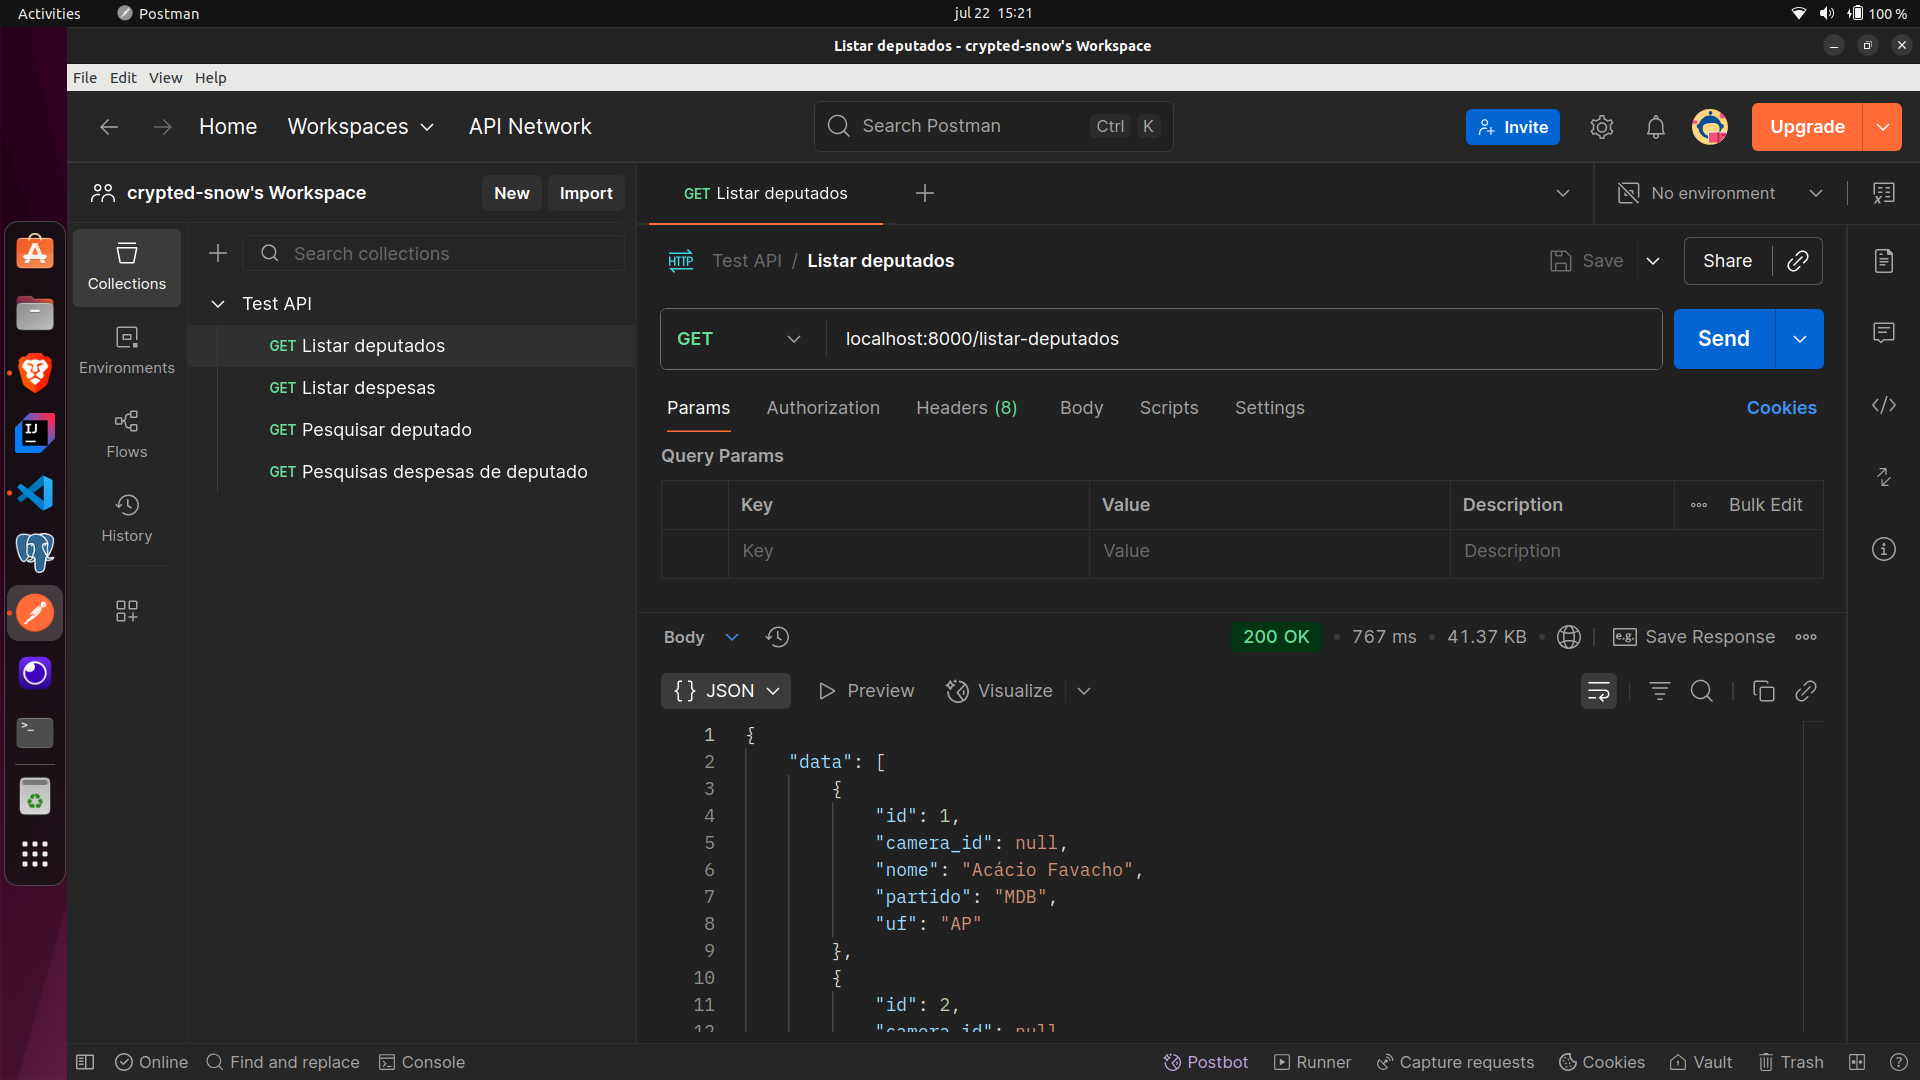
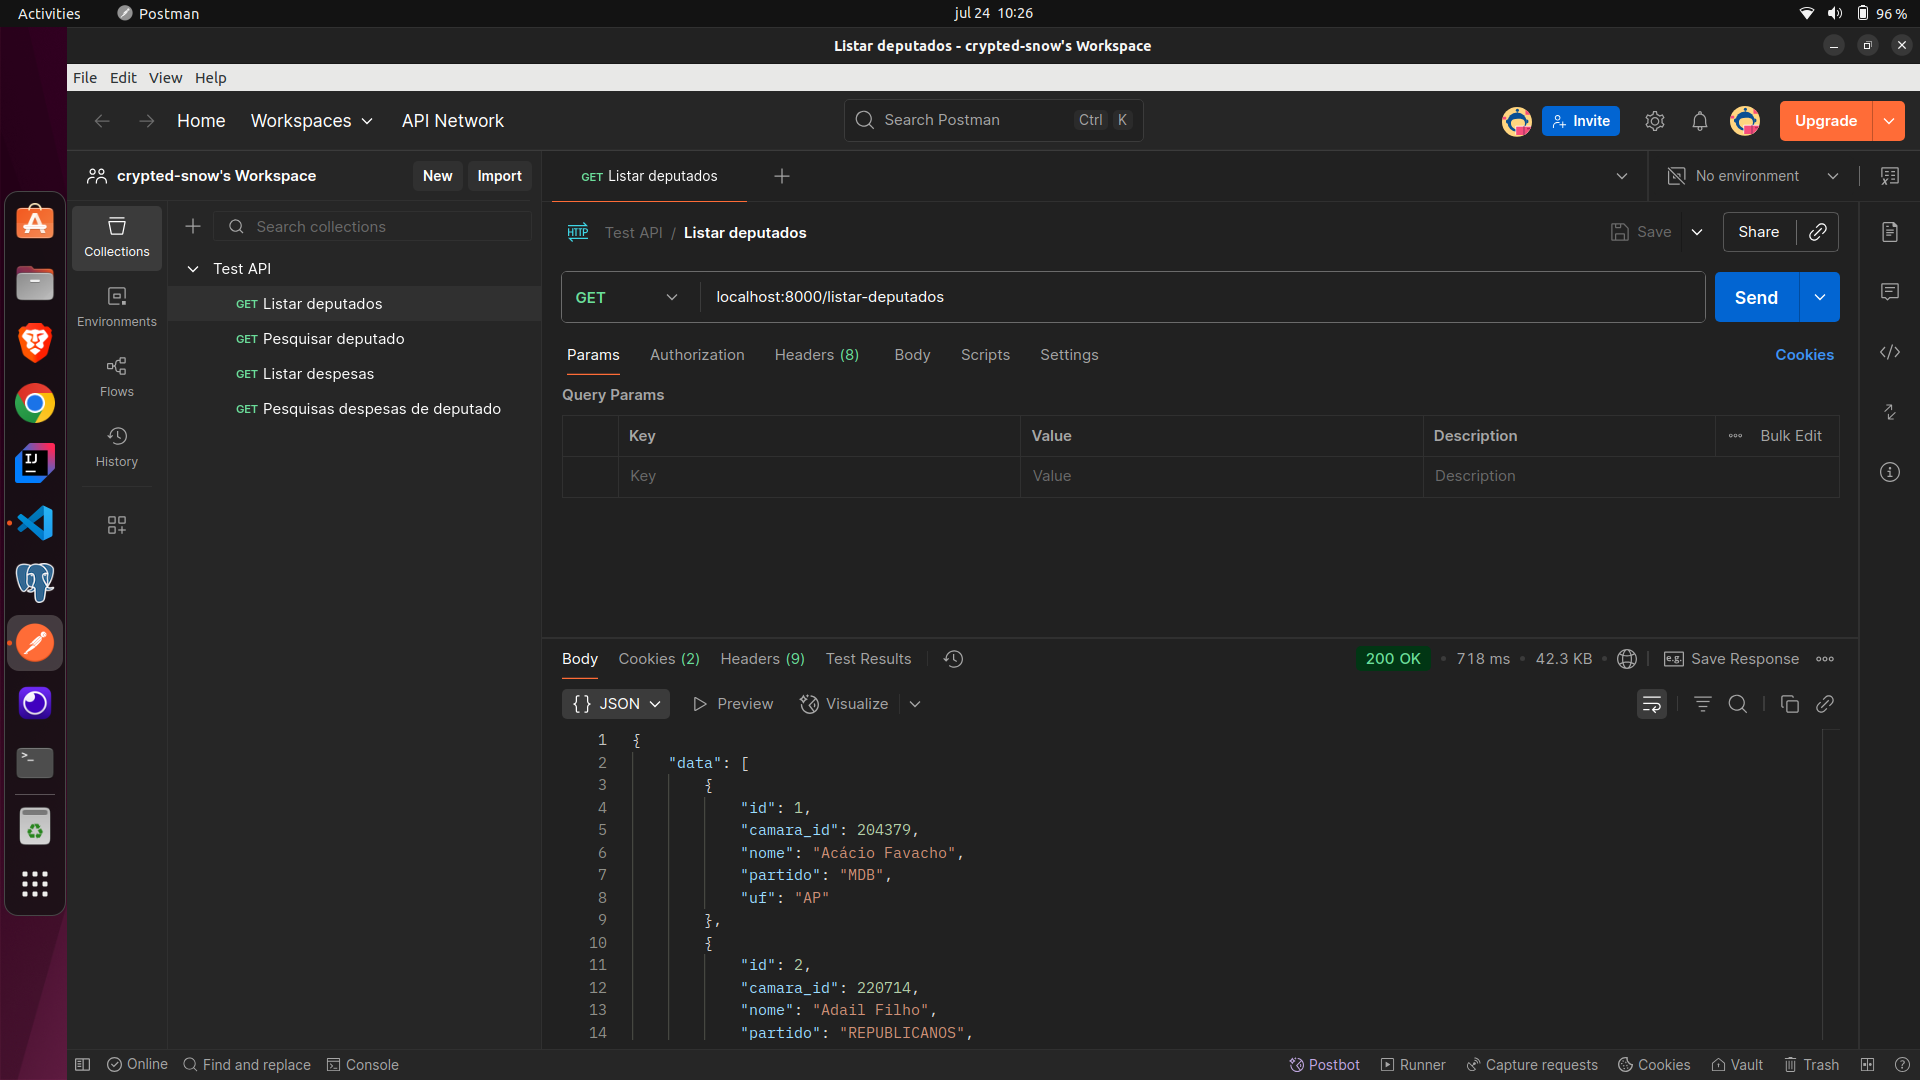
Refactor: Change camera_id to camara_id.

diff --git a/app/Http/Resources/DespesaResource.php b/app/Http/Resources/DespesaResource.php
@@ -15,12 +15,12 @@ class DespesaResource extends JsonResource
     public function toArray(Request $request): array
     {
         return [
-            'id'         => $this->id,
-            'deputado_id'  => $this->deputados->nome,
+            'id'            => $this->id,
+            'deputado_id'   => $this->deputados->nome,
             'tipo_despesa'  => $this->tipo_despesa,
-            'valor'       => $this->valor,
-            'fornecedor'       => $this->fornecedor,
-            'url_documento' => $this->url_documento,
+            'valor'         => $this->valor,
+            'fornecedor'    => $this->fornecedor,
+            'url_documento'  => $this->url_documento,
             'data_documento' => optional($this->data_documento)->format('d-m-Y'),
         ];
     }

diff --git a/app/Http/Resources/DeputadoResource.php b/app/Http/Resources/DeputadoResource.php
@@ -16,10 +16,10 @@ class DeputadoResource extends JsonResource
     {
         return [
             'id'         => $this->id,
-            'camera_id'  => $this->camera_id,
+            'camara_id'  => $this->camara_id,
             'nome'       => $this->nome,
-            'partido'      => $this->partido,
-            'uf'       => $this->uf,
+            'partido'    => $this->partido,
+            'uf'         => $this->uf,
         ];
     }
 }

diff --git a/README.md b/README.md
@@ -169,7 +169,7 @@ Você precisa seguir com a atenção para executar os endpoints:
     "data": [
         {
             "id": 1,
-            "camera_id": null,
+            "camara_id": 204379,
             "nome": "Acácio Favacho",
             "partido": "MDB",
             "uf": "AP"
@@ -177,7 +177,7 @@ Você precisa seguir com a atenção para executar os endpoints:
         ...
         {
             "id": 511,
-            "camera_id": null,
+            "camara_id": 220552,
             "nome": "Zucco",
             "partido": "PL",
             "uf": "RS"
@@ -196,7 +196,7 @@ Você precisa seguir com a atenção para executar os endpoints:
     "data": [
         {
             "id": 484,
-            "camera_id": null,
+            "camara_id": 160976,
             "nome": "Tiririca",
             "partido": "PL",
             "uf": "SP"
